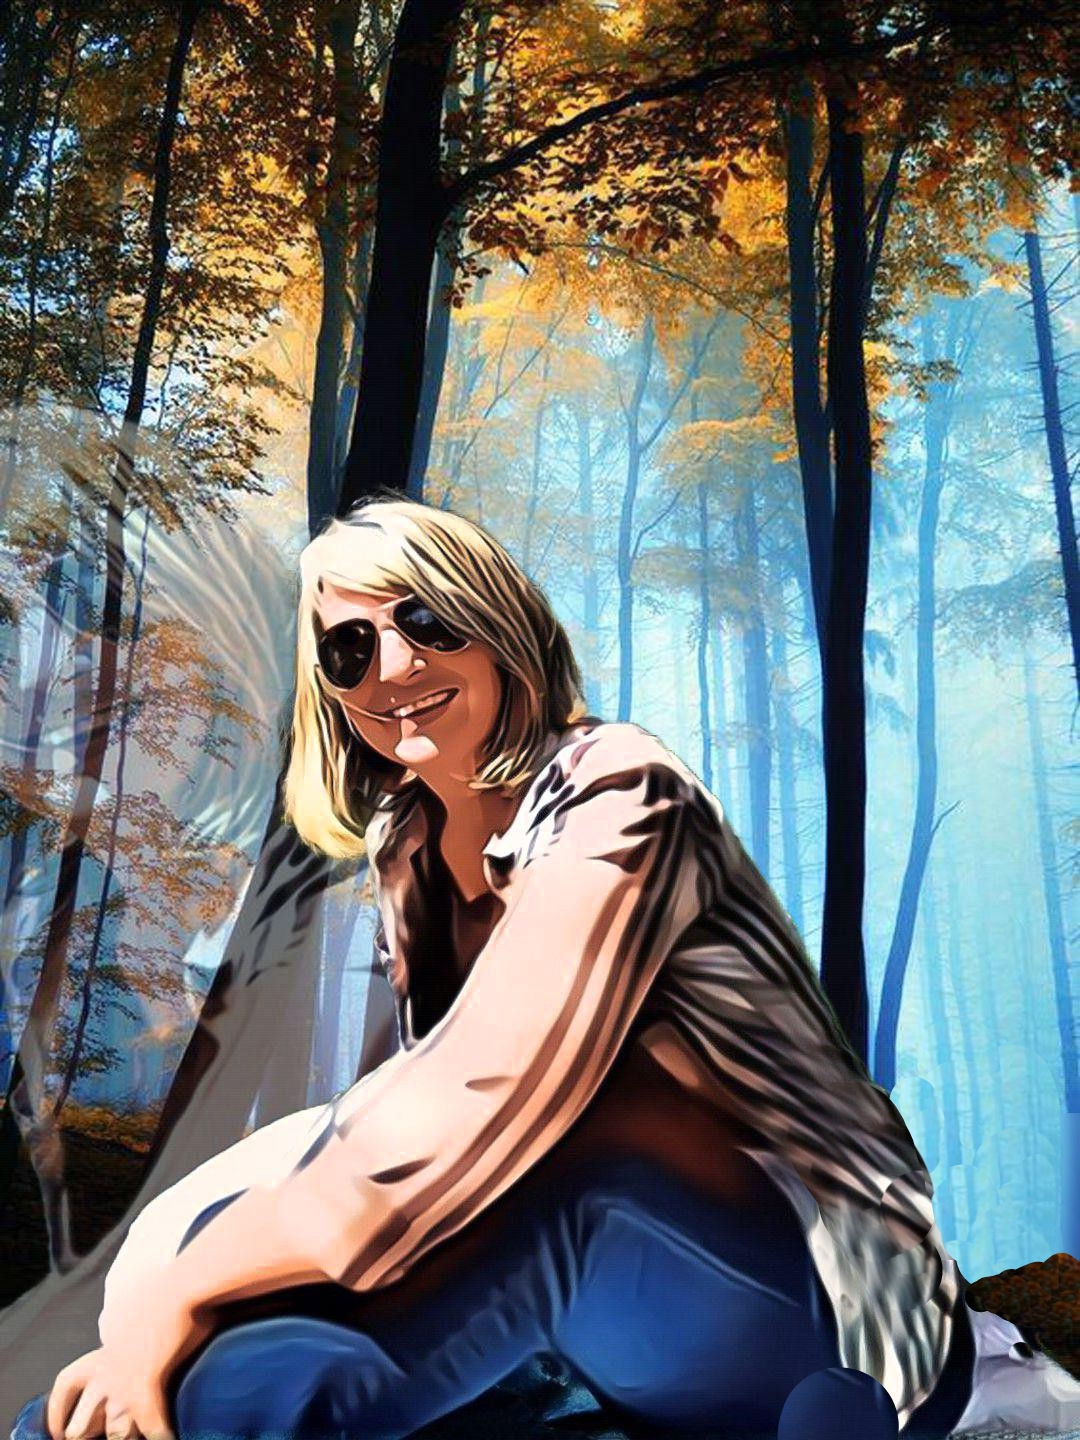
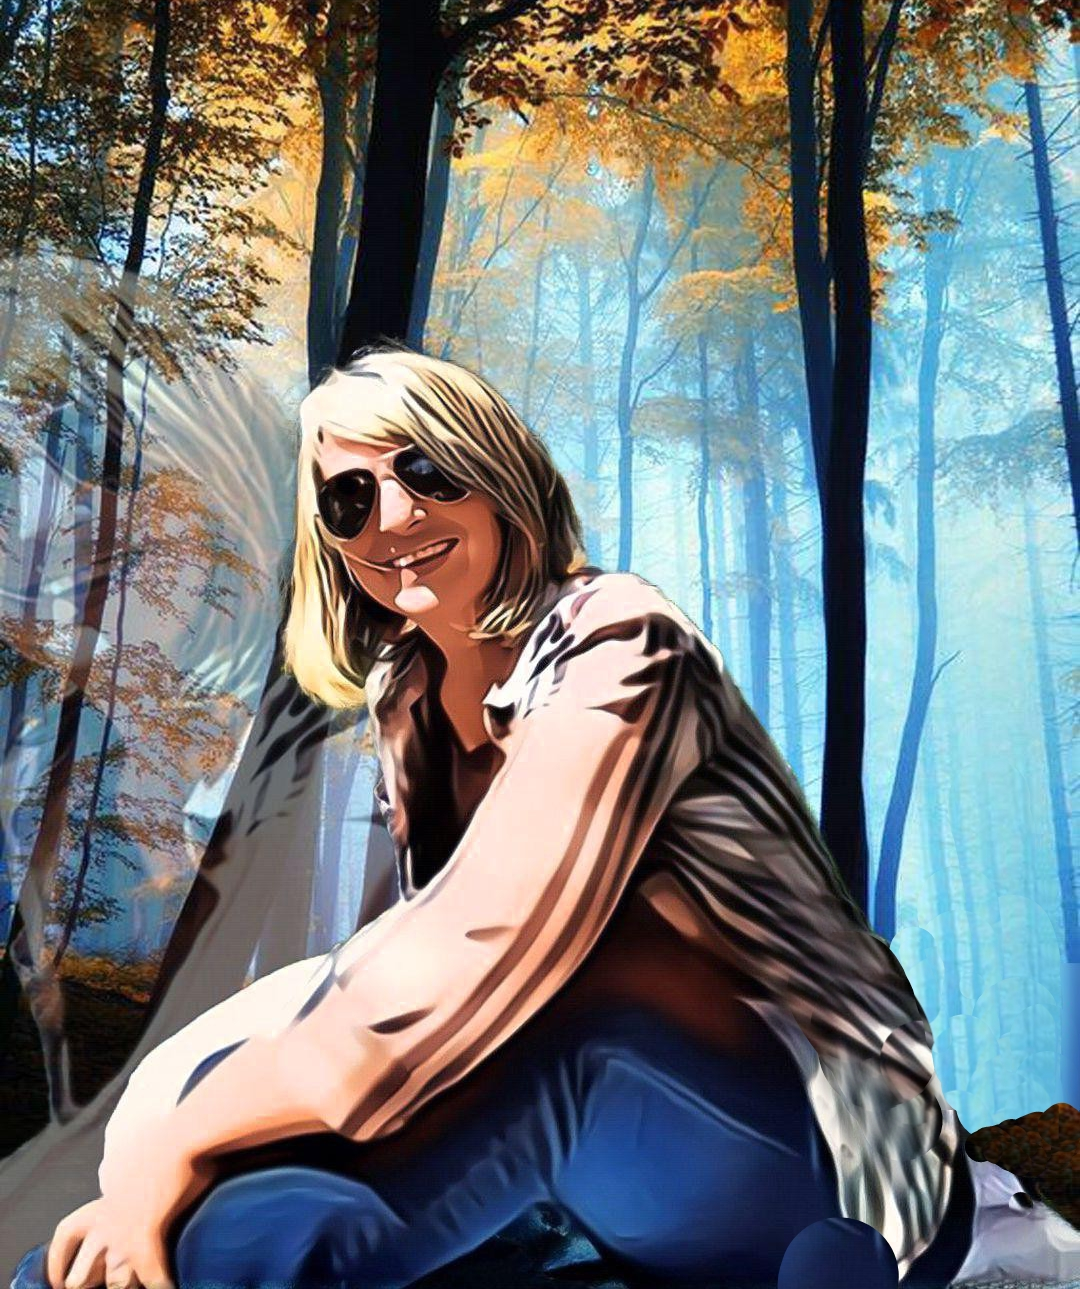
h1 home

diff --git a/home.html b/home.html
@@ -11,7 +11,7 @@
 <body>
     
   <div class="d-flex d-flex-home justify-content-between">
-    <img src="./img/home2.png" class="col-md-4 float-me-3" alt="Pilar García Royo">
+    <img src="./img/home.png" class="col-md-4 float-me-3" alt="Pilar García Royo">
 
     <div class="container">
       <div class="container mb-0">
@@ -23,10 +23,10 @@
 
       
       
-      <div class="container p-0 mt-0 mb-1">
-        <p>
+      <div class="container mt-0 mb-4">
+        <h6>
           ¡Hola! Esta web personal la diseñé y programé para que conozcas mi historia: estudios, trabajos,  hobbies y datos personales. 
-        </p>
+        </h6>
 
       </div>
       <div class="container mb-2">

diff --git a/styles.css b/styles.css
@@ -54,7 +54,8 @@ h1{
   border-radius: 5px;
   margin-top: 80px;
   margin-bottom: 0px;
-  margin-left: 150px;   
+  margin-left: 150px; 
+  padding-bottom: 0px;  
 }
 
 body,html {
@@ -80,10 +81,15 @@ h3{
   font-size: 20px;
 }
 
-
-
-h4, h5, h6{
+h4{
   font-family: 'Poiret One', cursive;
+  font-size: 20px;
+}
+
+h5, h6{
+  font-family: 'Bungee Outline', cursive;
+  font-family: 'Comfortaa', cursive; 
+  font-size: 11px;
 }
 
 p, a{

diff --git a/work.html b/work.html
@@ -90,7 +90,7 @@
             <div class="flip-container">
               <div class="card" style="width: 8rem">
                 <div class="front">
-                  <p>Web Developer<br>Socia<br>CAFÉ CON LECHE</p>
+                  <p>Web Developer<br>Socia<br>CAFÉ CON LECHE PROFILE</p>
                 </div>
                 <div class="back">
                   <p>2021<br>a la fecha</p>
